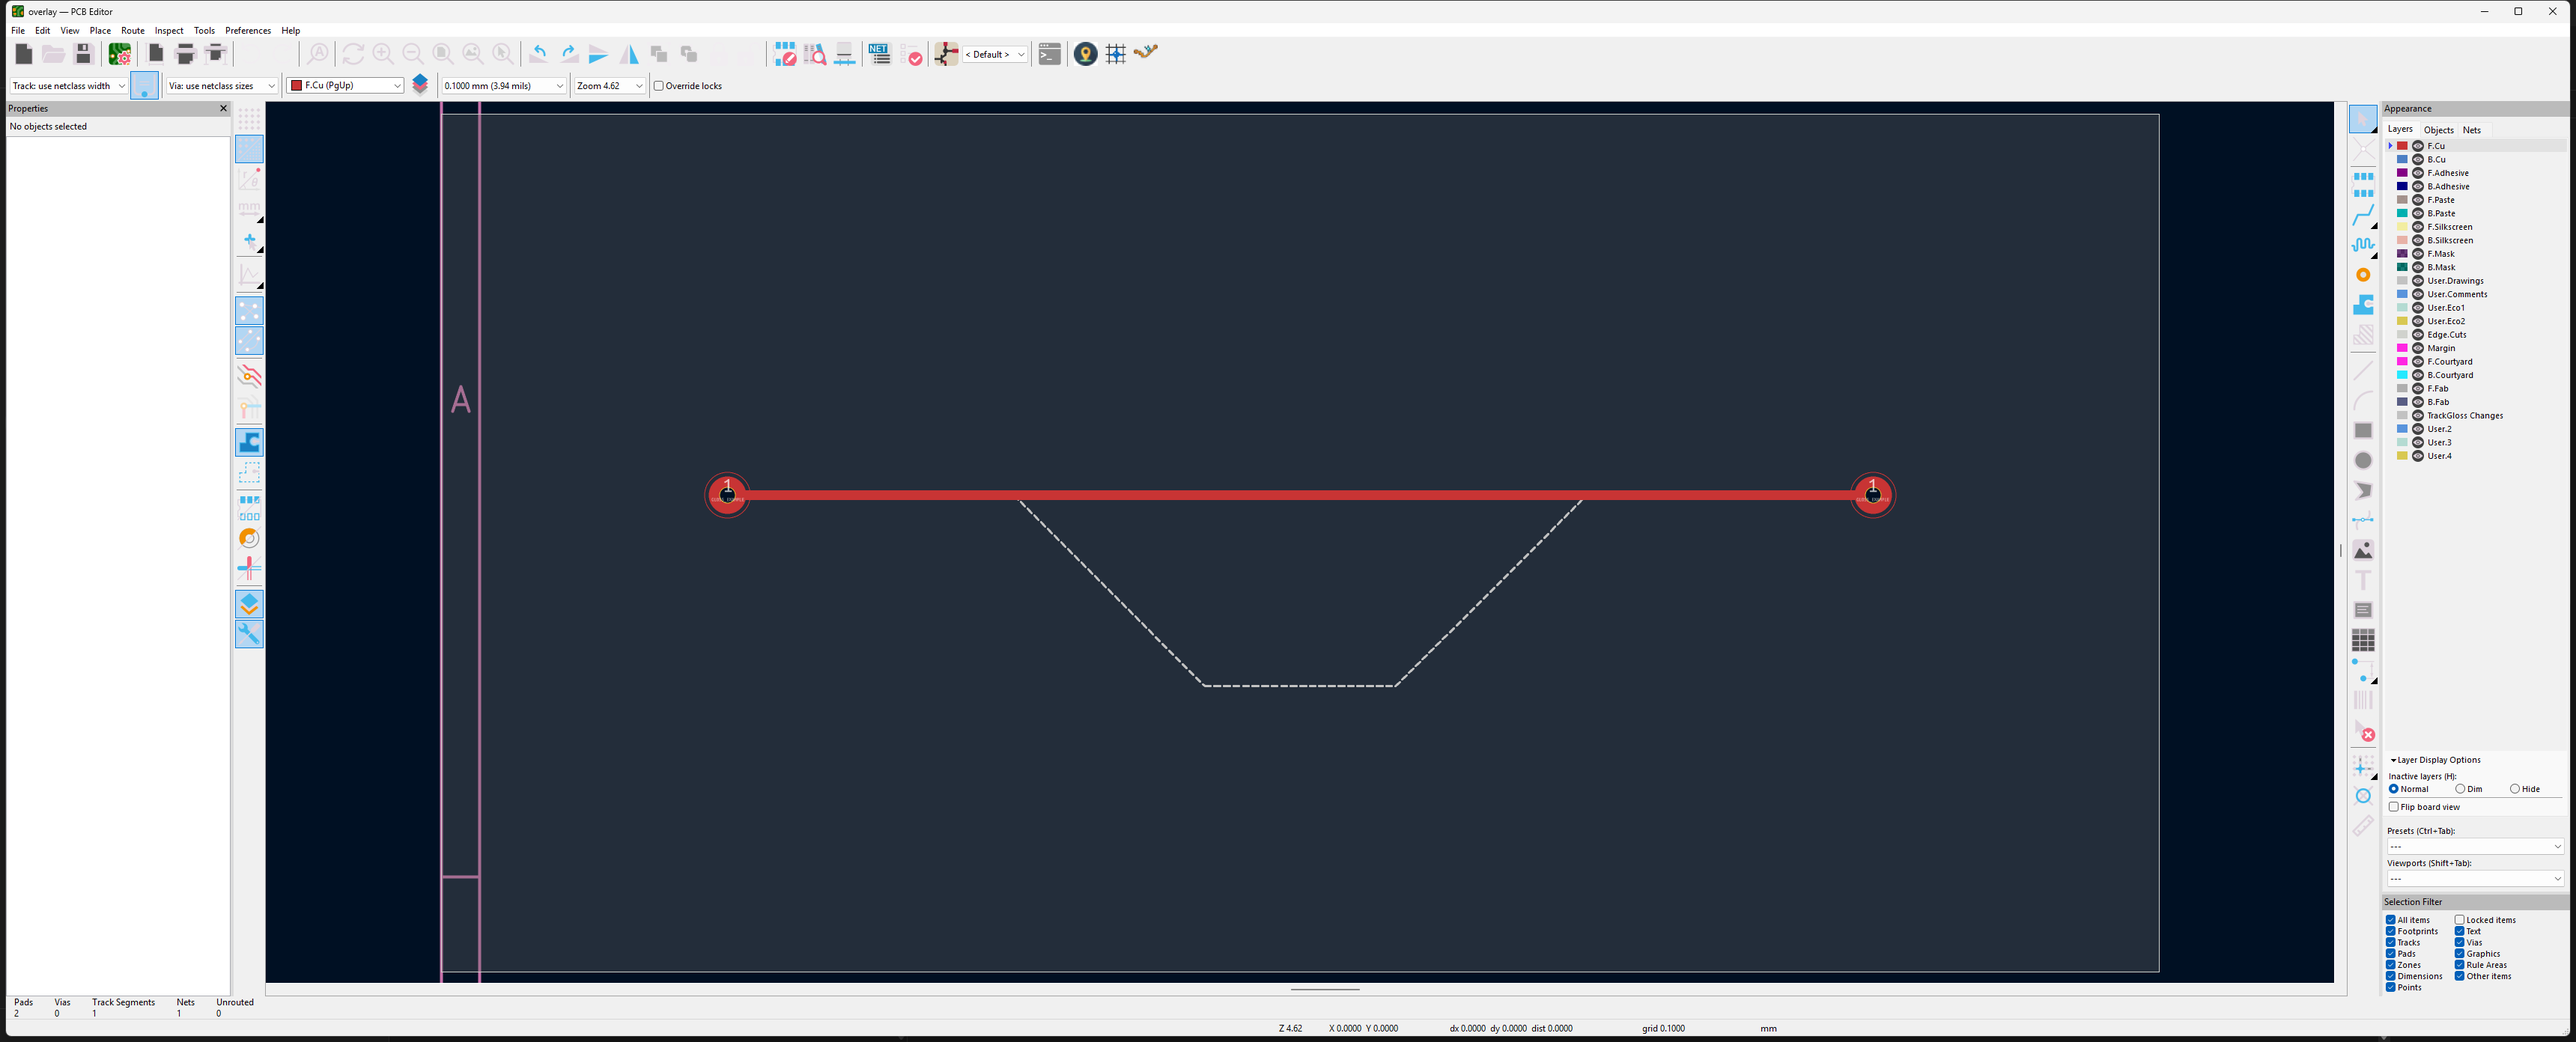
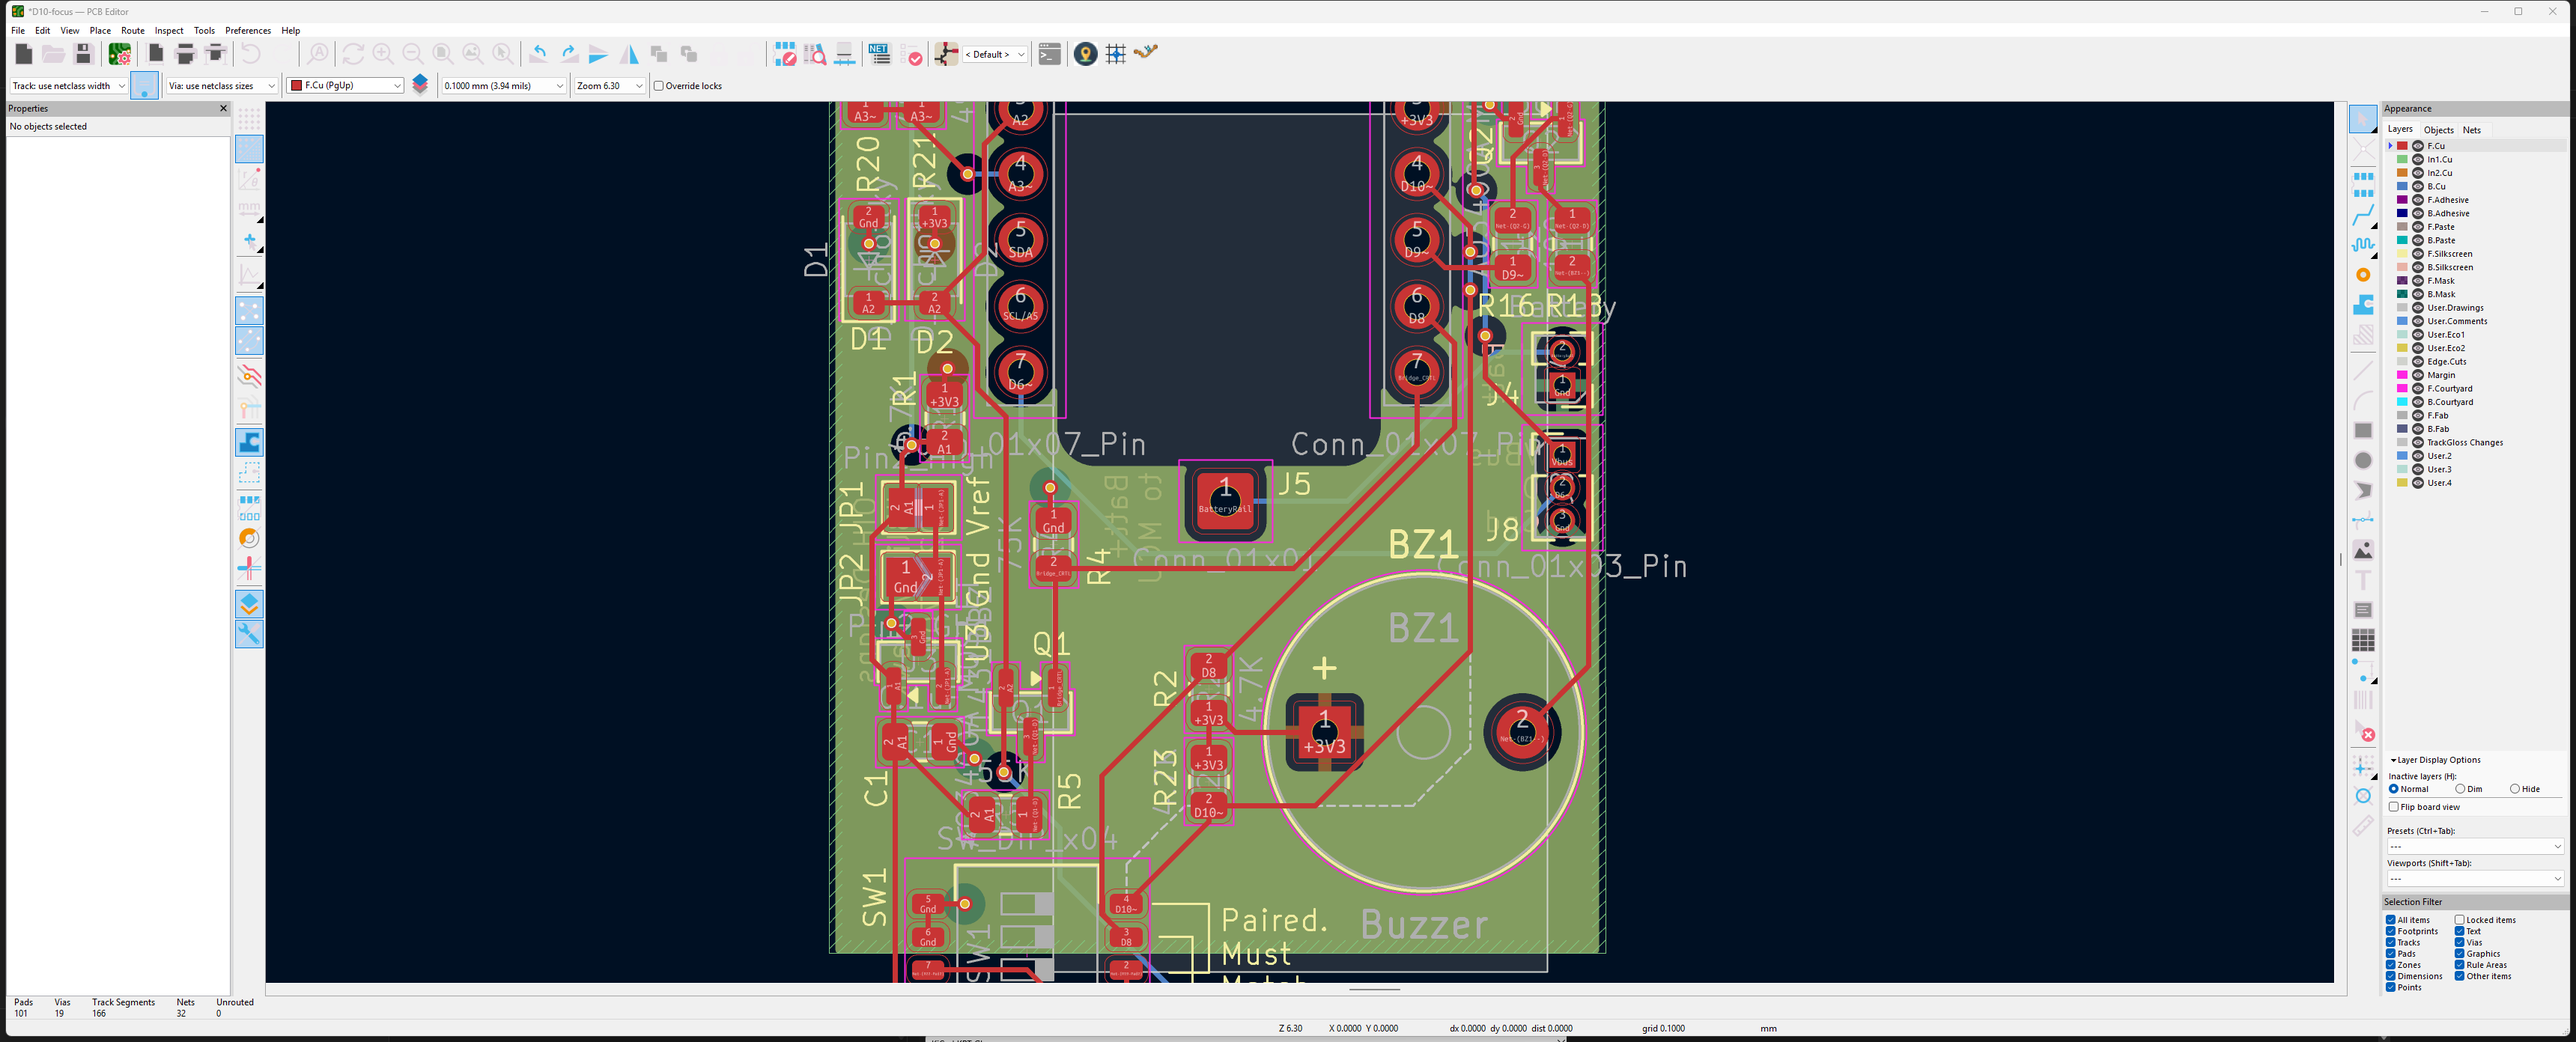
docs: show medium-board gloss overlay

diff --git a/README.md b/README.md
@@ -6,6 +6,11 @@ by Dr DrAndyHaas, which provides obstacle, clearance and connectivity checks.
 
 ![KiCad PCB Editor: the TrackGloss Changes overlay on User.1 shows the former dotted detour and the final shortened track.](docs/assets/kicad-user1-reductions.png)
 
+This KiCad capture uses a medium board and runs Gloss only on the small
+`D10~` track set. In the **Appearance** panel, the active copper layers and
+**TrackGloss Changes** on `User.1` are visible together: the solid red routing
+is the result, while the dotted overlay preserves the former path for review.
+
 ## Install
 
 In KiCad, open **Plugin and Content Manager**, choose **Install from File…**,
